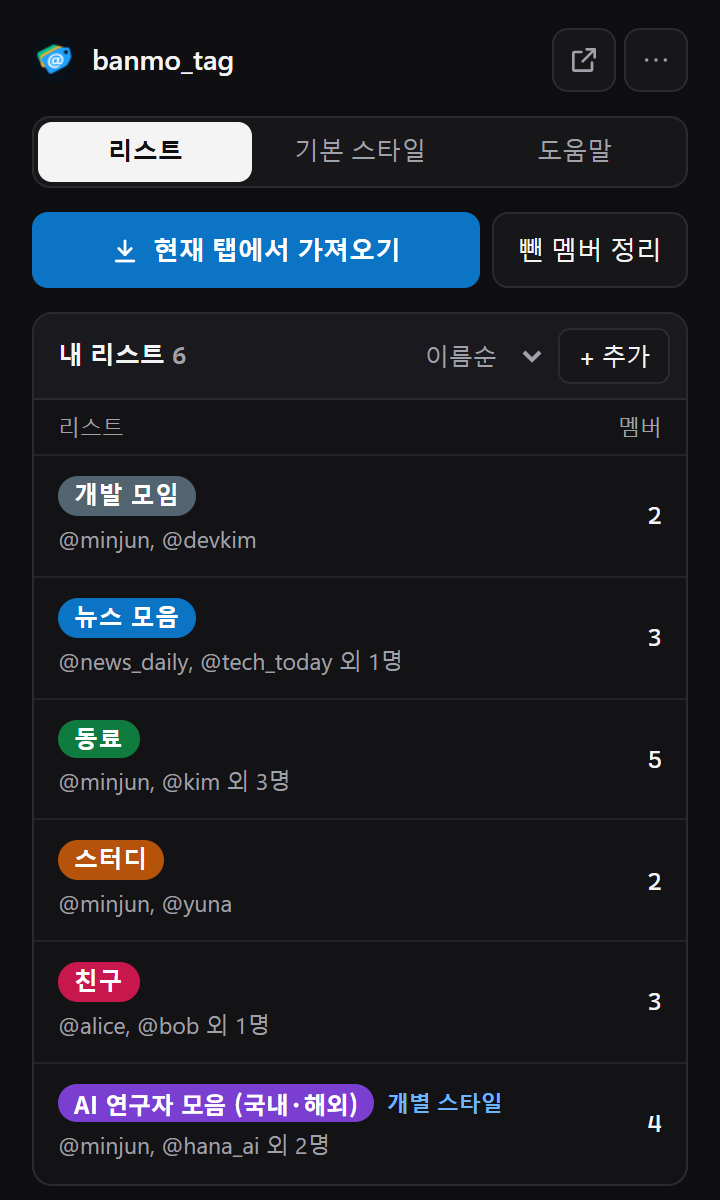
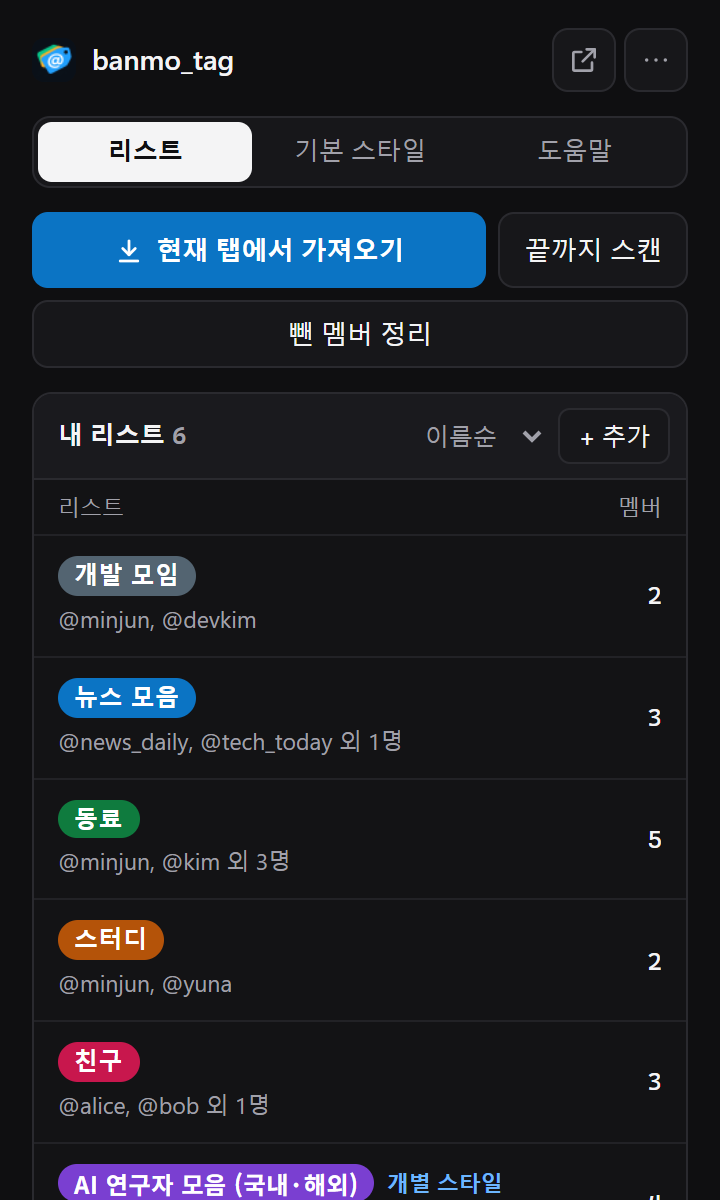
Bump version to 1.9.0
- manifest 1.9.0, CHANGELOG [Unreleased] -> [v1.9.0] (Chrome real x.com result added),
  README version, test-runner title.
- README screenshots retaken (popup top row now has [끝까지 스캔] and [뺀 멤버 정리] on its own row).
- TEST_RESULTS: v1.9.0 automated results (manual table left for the user).
- TODO: [끝까지 스캔] real X check - what is left in Chrome.

diff --git a/tests/test-runner.html b/tests/test-runner.html
@@ -141,7 +141,7 @@
 <body>
   <div class="container">
     <header>
-      <h1><span>⚡</span> banmo_tag v1.8.0 자동화 테스트 러너</h1>
+      <h1><span>⚡</span> banmo_tag v1.9.0 자동화 테스트 러너</h1>
       <button id="run-btn" class="btn" onclick="runAllTests()">테스트 다시 실행</button>
     </header>
 

diff --git a/docs/TODO.md b/docs/TODO.md
@@ -23,7 +23,7 @@
 - [ ] 👤 **수동 확인 표 채우기**: [TEST_RESULTS.md](TEST_RESULTS.md) 의 v1.7.2 수동 확인 M-01~M-15 를 실제 X 에서 확인하고 결과를 적기. 시나리오는 [TEST_CASES.md](TEST_CASES.md#수동-확인-시나리오)에 있습니다.
   - 특히 **M-08 흐리게 모드**: 흐리게 할 부분(프로필 사진·본문·사진)을 실제 X 화면에서 제대로 찾는지 아직 한 번도 확인하지 못했습니다.
   - v1.7.1 표도 비어 있습니다. 같은 코드가 v1.7.2 에 들어 있으니 v1.7.2 만 채우고 v1.7.1 은 ➖(해당 없음)로 둬도 됩니다.
-- [ ] 👤 **[끝까지 스캔] 실제 X 에서 확인**: 자동 테스트는 스크롤하면 15명씩 더 불러오는 테스트용 화면으로만 확인했습니다. 실제 x.com 에서 멤버가 많은 리스트(한 화면에 다 안 보이는 리스트)의 멤버 화면과 "N 멤버" 창 각각에서 [끝까지 스캔]을 눌러, 끝까지 내려간 뒤 확인 창이 뜨는지, 읽은 멤버 수가 X 의 멤버 수와 맞는지 확인합니다. 파이어폭스는 확인함(2026-11-23, 멤버 64명 리스트, "N 멤버" 창·좁은 화면 모두 64명). **크롬이 남음**(Claude in Chrome 으로는 팝업을 열 수 없어 사용자가 확장 프로그램을 다시 불러온 뒤 직접 눌러야 함).
+- [ ] 👤 **[끝까지 스캔] 실제 X 에서 확인**: 자동 테스트는 스크롤하면 15명씩 더 불러오는 테스트용 화면으로만 확인했습니다. 실제 x.com 에서 멤버가 많은 리스트(한 화면에 다 안 보이는 리스트)의 멤버 화면과 "N 멤버" 창 각각에서 [끝까지 스캔]을 눌러, 끝까지 내려간 뒤 확인 창이 뜨는지, 읽은 멤버 수가 X 의 멤버 수와 맞는지 확인합니다. 파이어폭스는 확인함(2026-11-23, 멤버 64명 리스트, "N 멤버" 창·좁은 화면 모두 64명). 크롬은 "N 멤버" 창에서 스캔·진행 중 이어 보기까지 확인함(2026-11-24). **크롬에서 남은 것**: 좁은 화면, 확인 창(뺀 멤버가 있을 때), 팝업이 닫힌 사이 끝난 결과 보여 주기 (Claude in Chrome 으로는 팝업을 열 수 없어 사용자가 직접 눌러야 함).
 - [x] 👤 **크롬 오류 해결 확인** (2026-11-11 확인 완료): v1.7.2 에서 고친 `'background.scripts' requires manifest version of 2 or lower.` 오류가, 오류를 봤던 브라우저에서 사라졌는지 확인. 테스트 환경(Chromium 156)에서는 원래 오류가 재현되지 않았습니다.
 - [ ] 🔗 **실제 X 화면 스냅샷 추가**: `tests/fixtures/real/` 이 비어 있음. Claude in Chrome 을 연결하고 `/x-snapshot` 으로 홈 타임라인, 리스트 메인, 리스트 멤버 화면을 저장하면 `real-snapshots.spec.js` 가 자동으로 검사합니다. X 가 화면 구조를 바꿨는지 빨리 알 수 있습니다.
 - [ ] 🔗 **README 타임라인 이미지 교체**: 지금 `docs/images/timeline.png` 는 예시 페이지에 실제 확장 프로그램을 적용한 화면입니다. 실제 X 화면으로 바꾸려면 크롬 연결이 필요합니다(또는 직접 찍은 이미지로 교체).

diff --git a/docs/CHANGELOG.md b/docs/CHANGELOG.md
@@ -9,6 +9,10 @@
 
 > 아직 릴리스하지 않은 변경 사항입니다. 새 버전을 릴리스할 때 `npm run bump -- X.Y.Z` 를 실행하면 이 항목이 그 버전의 내용이 됩니다.
 
+---
+
+## [v1.9.0] - 2026-11-24
+
 ### 🚀 Added (새로운 기능)
 - **[끝까지 스캔] (`popup/sync.js`, `content.js`, `shared/list-page.js`)**: 팝업의 [현재 탭에서 가져오기] 옆에 **[끝까지 스캔]** 버튼을 추가했습니다. 누르면 X 리스트 멤버 화면을 맨 위로 올린 뒤 끝까지 자동으로 스크롤하며 멤버를 모두 읽고, 끝나면 [뺀 멤버 정리]와 같은 확인 창(지울 멤버·추가될 멤버 수)을 띄웁니다. [교체]를 눌러야 지웁니다.
   - 한 번에 보이는 높이의 60%씩 내리고 0.7초 기다립니다. 앞 구간과 겹치게 내려야 사이의 멤버를 건너뛰지 않았다고 볼 수 있기 때문입니다. X 가 다음 멤버를 불러오는 중이면 기다리고, 목록 끝에 닿은 상태가 2.5초 동안 그대로이면 끝으로 봅니다.
@@ -16,7 +20,7 @@
   - 스캔하는 동안 팝업 위쪽에 읽은 멤버 수가 보이고 버튼이 **[스캔 중지]**로 바뀝니다. X 화면을 직접 스크롤하거나 누르면 멈춥니다. 팝업이 닫혀도 스캔은 X 탭에서 계속되고, 다시 열면 진행 상황을 이어서 보여 줍니다. 팝업이 닫힌 사이에 스캔이 끝났거나 멈췄다면 다시 열 때 그 결과(끝났으면 확인 창)를 한 번 보여 줍니다.
   - 스캔하는 동안과 끝난 뒤에는 뺀 멤버를 자동으로 지우지 않습니다(확인 창에서 정함). 새 멤버 추가는 예전처럼 자동으로 됩니다.
   - 멤버 화면(`/i/lists/<ID>/members`)과 "N 멤버"를 눌러 뜨는 창 모두에서 동작합니다. 창이면 그 창 안을 스크롤합니다.
-  - 테스트: 단위 8건(164 → 172건), E2E 7건을 추가했습니다. 테스트용 X 화면은 실제처럼 스크롤하면 15명씩 더 불러옵니다(`tests/fixtures/synthetic/list-members-virtual.html`). 실제 x.com 에서는 파이어폭스로 멤버 64명 리스트의 "N 멤버" 창과 좁은 화면(페이지 스크롤) 모두 확인했습니다(64명 모두 읽음). 크롬의 실제 x.com 은 아직 확인하지 않았습니다.
+  - 테스트: 단위 8건(164 → 172건), E2E 7건을 추가했습니다. 테스트용 X 화면은 실제처럼 스크롤하면 15명씩 더 불러옵니다(`tests/fixtures/synthetic/list-members-virtual.html`). 실제 x.com 에서 확인했습니다(멤버 64명 리스트. Firefox: "N 멤버" 창·좁은 화면, 크롬: "N 멤버" 창): 맨 위부터 끝까지 내려가 64명을 모두 읽었고, 스캔하는 동안 뺀 멤버를 지우지 않다가 확인 창에서 [교체]를 누르면 지웠습니다(Firefox). 팝업이 닫힌 사이에 끝난 결과를 다시 열 때 보여 주는 것은 Firefox 에서, 진행 중인 스캔을 다시 열 때 이어서 보여 주는 것은 크롬에서 확인했습니다.
 
 ---
 

diff --git a/docs/TEST_RESULTS.md b/docs/TEST_RESULTS.md
@@ -25,6 +25,50 @@
 
 <!-- 새 결과는 이 줄 아래에 추가됩니다 (npm run test:report -- --write) -->
 
+## [v1.9.0] - 2026-11-24
+
+- 대상: `ef6d55b + 커밋 안 된 변경` (release/v1.9.0) · manifest 1.9.0
+- 환경: Windows_NT 10.0.26300 · Node v26.13.0
+- 자동 테스트 결과: **모두 통과**
+
+| 검사 | 결과 | 통과 / 전체 |
+|---|:-:|---|
+| 정적 검사 (`npm run validate`) | ✅ | 13/13 |
+| ESLint (`npm run lint`) | ✅ | 오류 0 · 경고 0 |
+| Firefox 호환성 (`npm run lint:firefox`) | ✅ | 오류 0 · 경고 0 · 알림 0 |
+| 단위 테스트 (`tests/unit/`) | ✅ | 172/172 |
+| E2E X 화면 (content script · background) (`content.spec.js`) | ✅ | 29/29 |
+| E2E 팝업 (`popup.spec.js`) | ✅ | 38/38 |
+| 실제 Firefox (`npm run test:firefox`) | ✅ | 21/21 (Firefox 159.0.1) |
+
+### 실패한 항목
+
+없음
+
+### 수동 확인 ([TEST_CASES.md](TEST_CASES.md#수동-확인-시나리오))
+
+결과: ✅ 통과 / ❌ 실패 / ➖ 해당 없음 / 비어 있음 = 아직 안 함
+
+| ID | 항목 | 결과 | 메모 |
+|:-:|---|:-:|---|
+| M-01 | 리스트 이름에 내 아이디가 붙지 않음 |  |  |
+| M-02 | 멤버 창 뒤의 "팔로우 추천" 계정은 수집하지 않음 |  |  |
+| M-03 | "구성원" 탭에서만 자동 수집 |  |  |
+| M-04 | 리스트 메인 → 멤버 화면 이동 시 실제 이름 사용 |  |  |
+| M-05 | 수집 알림 (확장 프로그램 아이콘 ✔) |  |  |
+| M-06 | X 화면에 떠 있는 버튼·알림 없음 |  |  |
+| M-07 | 타임라인 배지 · 강조 · 인용 미니 배지 |  |  |
+| M-08 | 배지 많을 때 +N · 긴 이름 말줄임 · 흐리게 모드 |  |  |
+| M-09 | 배지 글자 스타일이 타임라인에 바로 반영 |  |  |
+| M-10 | 팝업에서 리스트 관리 |  |  |
+| M-11 | 뺀 멤버 정리 |  |  |
+| M-12 | 백업 내보내기 · 가져오기 (병합 / 덮어쓰기) |  |  |
+| M-13 | 화면 테마 (시스템 / 라이트 / 다크) |  |  |
+| M-14 | 새 탭 화면 · Firefox 팝업 우회 · x.com 접근 권한 |  |  |
+| M-15 | X 화면 구조 변화 경고가 잘못 뜨지 않음 |  |  |
+
+---
+
 ## [v1.8.0] - 2026-11-13
 
 - 대상: `fa93c23 + 커밋 안 된 변경` (release/v1.8.0) · manifest 1.8.0

diff --git a/README.md b/README.md
@@ -3,7 +3,7 @@
 banmo_tag는 X(Twitter) 타임라인에서 **내가 정한 리스트의 멤버를 한눈에 알아볼 수 있게** 해 주는 브라우저 확장 프로그램입니다. 리스트 멤버가 쓴 트윗의 이름 옆에 리스트 배지를 붙이고, 리스트마다 트윗을 강조하거나 흐리게 표시합니다.
 
 - 지원 브라우저: 크롬과 크롬 계열(엣지, 웨일 등), 파이어폭스 140 이상
-- 현재 버전: **v1.8.0** (변경 내역은 [docs/CHANGELOG.md](docs/CHANGELOG.md))
+- 현재 버전: **v1.9.0** (변경 내역은 [docs/CHANGELOG.md](docs/CHANGELOG.md))
 - 모든 데이터는 브라우저(`chrome.storage.local`)에만 저장되며 외부로 전송되지 않습니다. ([개인정보 처리방침](docs/PRIVACY.md))
 
 <p align="center">
